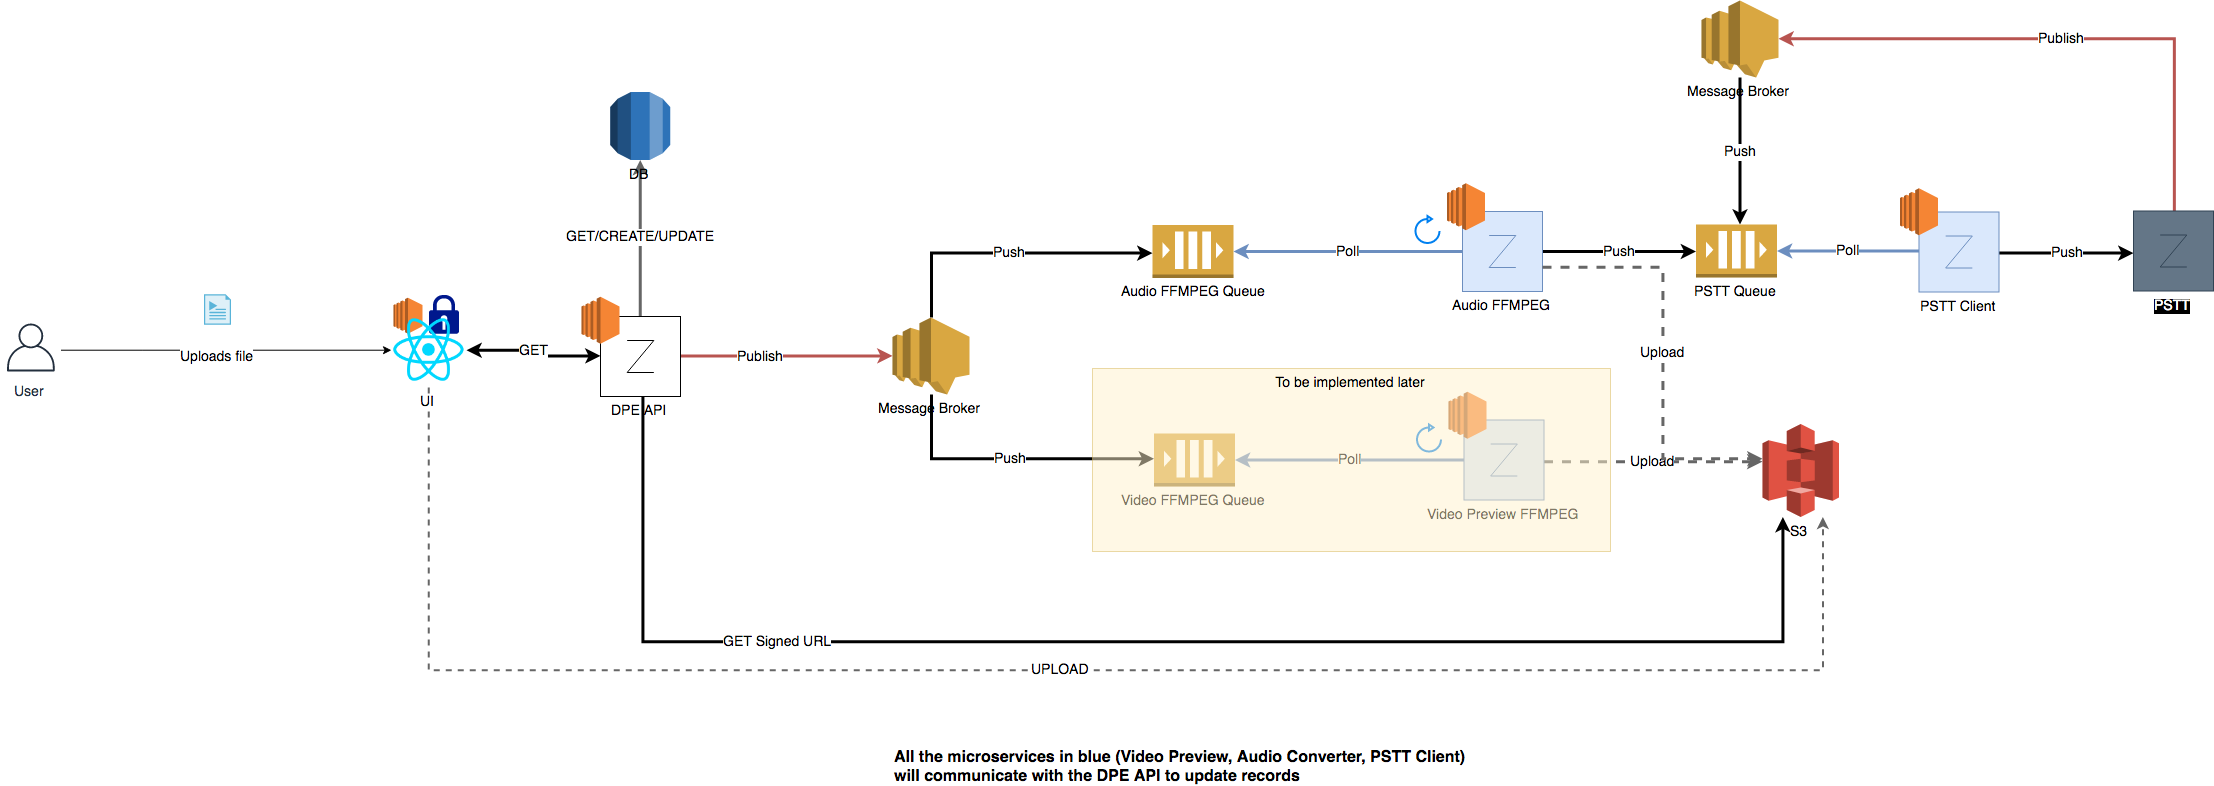
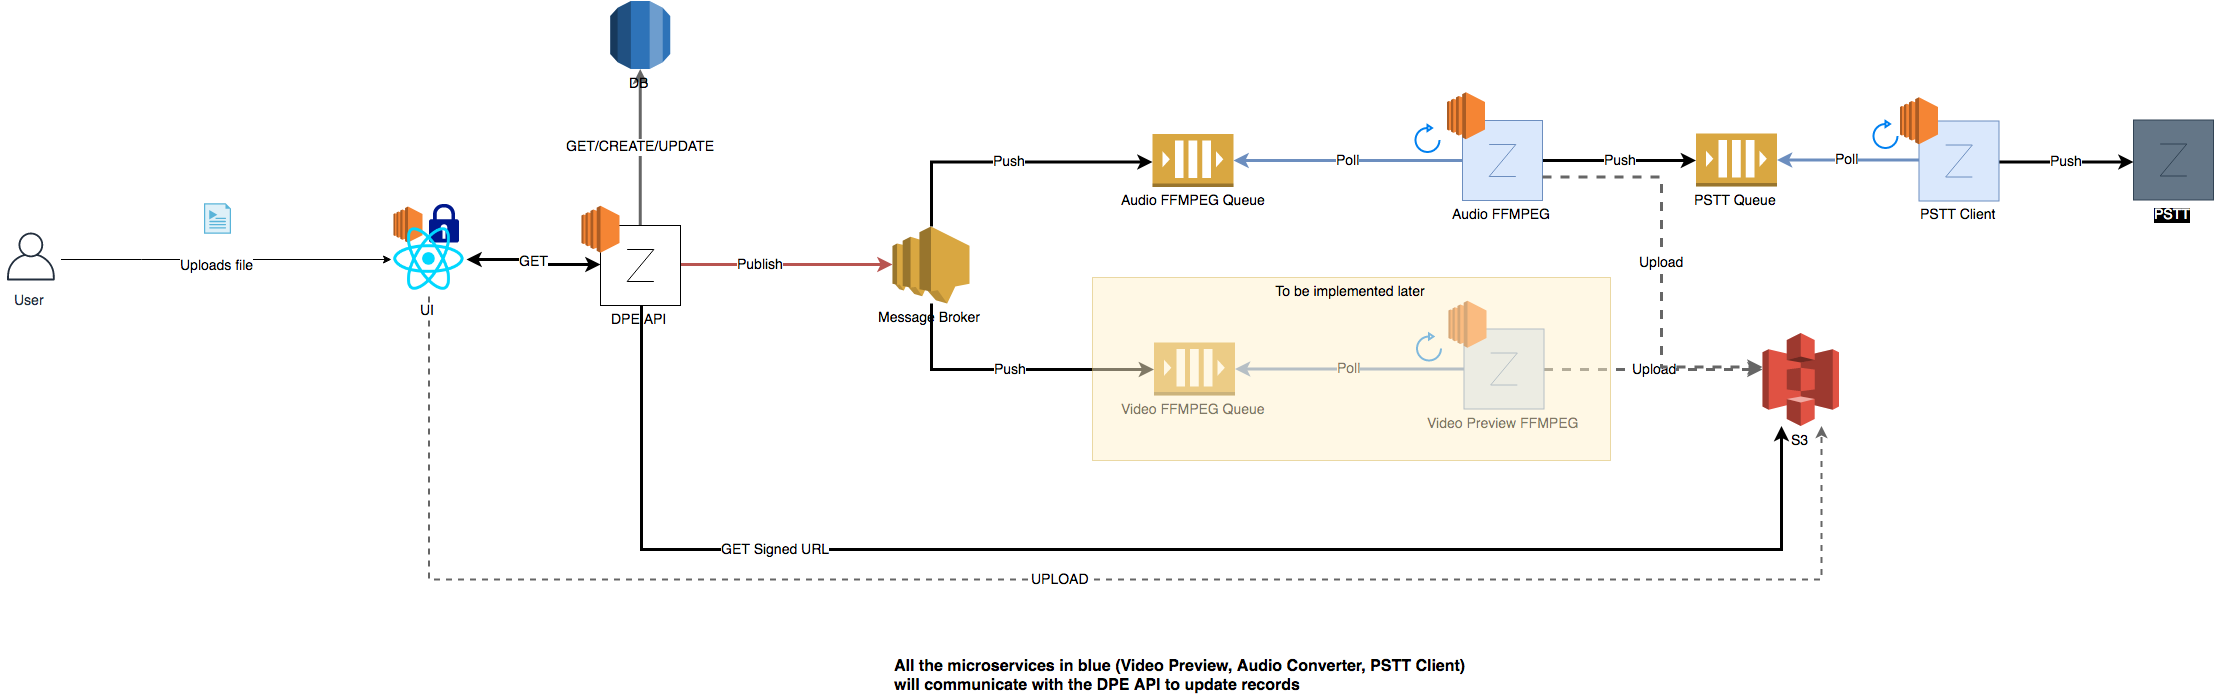
Updated with more details

diff --git a/docs/adr/2019-04-23-transcript-architecture.md b/docs/adr/2019-04-23-transcript-architecture.md
@@ -92,9 +92,10 @@ Cons:
 
 **Cold Lambda**
 Articles read:
-* https://read.acloud.guru/does-coding-language-memory-or-package-size-affect-cold-starts-of-aws-lambda-a15e26d12c76
-* https://kevinslin.com/aws/lambda_cold_start_idle/#results-us-east-1
-* https://read.acloud.guru/how-long-does-aws-lambda-keep-your-idle-functions-around-before-a-cold-start-bf715d3b810
+
+* <https://read.acloud.guru/does-coding-language-memory-or-package-size-affect-cold-starts-of-aws-lambda-a15e26d12c76>
+* <https://kevinslin.com/aws/lambda_cold_start_idle/#results-us-east-1>
+* <https://read.acloud.guru/how-long-does-aws-lambda-keep-your-idle-functions-around-before-a-cold-start-bf715d3b810>
 
 tl;dr the three articles above:
 Lambda idleness causes
@@ -114,6 +115,24 @@ set in stone.
 In order to avoid the cold restarts, we would need to create "Step Functions" to
 retain Lambdas "warm". The Step Functions will periodically call Lambdas (every
 30 minutes or so) to reduce idle time.
+
+##### Message delivery and Queues
+
+Using both SNS and SQS are well known patterns. SNS fans out messages to services subscribed to the topic. Services such as HTTPS, Queues, and Lambdas can subscribe to the topic. This is typically called the Pub/Sub model.
+SNS and SQS are often combined to fanout a single message to many different services in real-time. SQS is considered for our architecture for retry logic. SQS is a best effort FIFO queue which works for us. SQS's cost is based on the number of polling calls are done on the queue. The first million is free, and it's $0.40 for every subsequent million calls.
+
+The consumer of the queue can be either EC2 or Lambda.
+
+Lambda is beneficial in this case if we wanted asynchronous behaviour when there are jobs in the queue. However, since the microservices all have a uniform approach (subscribe to queue, update DB via API), it will be nicer to retain a uniform approach. Other than saving the cost of polling, there are no clear benefits of using a Lambda.
+
+Articles read:
+
+* <https://docs.aws.amazon.com/AWSSimpleQueueService/latest/SQSDeveloperGuide/sqs-best-practices.html>
+* <https://docs.aws.amazon.com/lambda/latest/dg/with-sqs.html>
+* <https://aws.amazon.com/sns/faqs/#reliability>
+* <https://docs.aws.amazon.com/lambda/latest/dg/with-sqs.html>
+* <https://medium.com/@TomKeeber/top-sns-aws-design-patterns-19b6acc82017>
+* <https://d20tech.com/2018/fanout-with-sns-sqs-lambda/>
 
 #### Storage: local vs S3
 
@@ -159,9 +178,9 @@ only IP address based authentication.
 
 ## Decision Outcome
 
-![Option 1 (only EC2)](dpe-transcript-EC2.png)
-![Option 2 (EC2, Lambda and gateway)](dpe-transcript-EC2_Lambda.png)
-![Option 3 (EC2, Lambda, SNS, and SQS)](dpe-transcript-fleshed-out.png)
+![Option 1 (only EC2)](./dpe-transcript-EC2.png)
+![Option 2 (EC2, Lambda and gateway)](./dpe-transcript-EC2_Lambda.png)
+![Option 3 (EC2, Lambda, SNS, and SQS)](./dpe-transcript-fleshed-out.png)
 
 All options will have the advantages of:
 
@@ -184,7 +203,7 @@ All options will have the disadvantages of:
   S3.
 * Locking in with AWS.
 
-### Option 1
+### Option 1 (only EC2)
 
 #### Advantages
 
@@ -197,7 +216,7 @@ test integration locally with Lambdas and Gateways.
 
 * Operational concerns that might be unnecessary
 
-### Option 2
+### Option 2 (EC2, Lambda and gateway)
 
 #### Advantages
 
@@ -210,7 +229,7 @@ test integration locally with Lambdas and Gateways.
 * Difficulty in debugging due to Lambda
 * Operating System is abstracted away (loss of control)
 
-### Option 3
+### Option 3 (EC2, Lambda, SNS, and SQS)
 
 This has been developed two months after. The architecture is fleshed out in this option.
 It shows, clearer responsibilities with defined interfaces.
@@ -218,8 +237,8 @@ We've added:
 
 1. SNS and SQS (fanout pattern) for reliable job delivery to microservices.
 2. S3 signed URL communication via API, rather than direct upload from API. This will improve data transmission from different components.
-3. PSTT Queue jobs to be published by Audio FFMPEG Service, subscribed PSTT client, and pushed to PSTT.
-4. On completion of PSTT task, a notification will be pushed to the PSTT Queue, which the client will consume to update the API.
+3. STT Queue jobs to be published by Audio FFMPEG Service, subscribed STT client (proxy), and pushed to STT service, treated as a black box.
+4. On completion of STT task, the client will update the API directly.
 
 The video preview section is tinted with yellow as it is not currently in-scope.
 
@@ -227,7 +246,7 @@ The video preview section is tinted with yellow as it is not currently in-scope.
 
 * Fault tolerance from using queues
 * Avoiding timeout issues with Lambdas for running long jobs
-* A uniform interface across the media processing microservices (polling queues)
+* A uniform interface across the media processing microservices (polling queues, posting to the API)
 * Upload is not via the API, which supposedly improves data transmission time.
 ... and benefits from the previous options.
 
